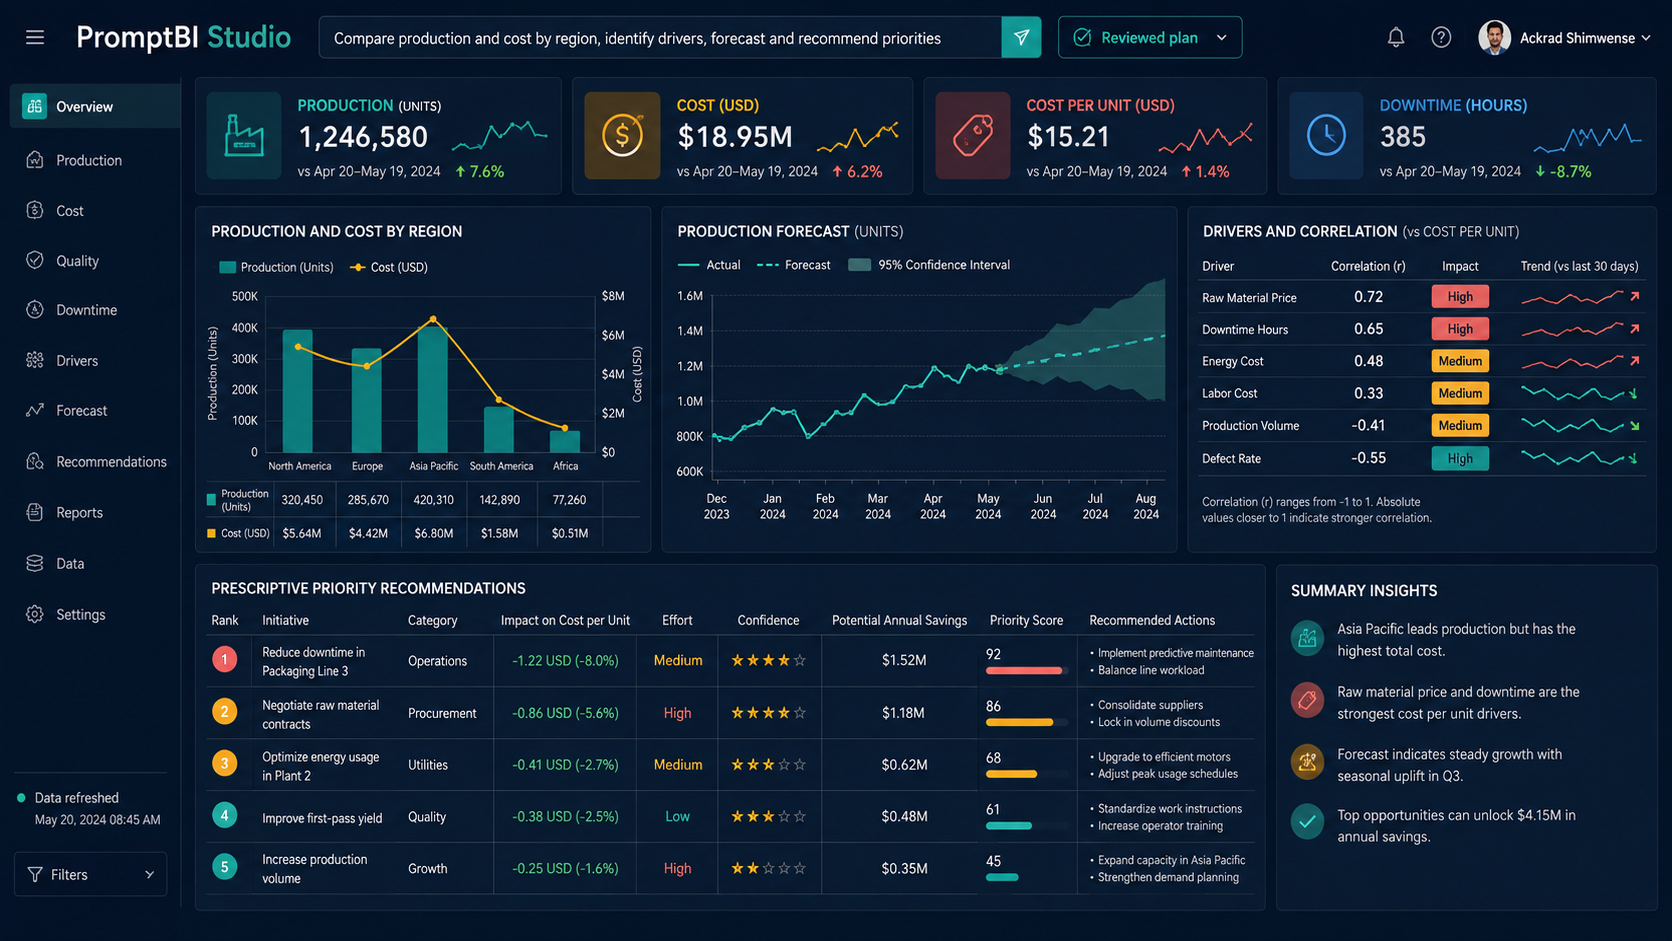
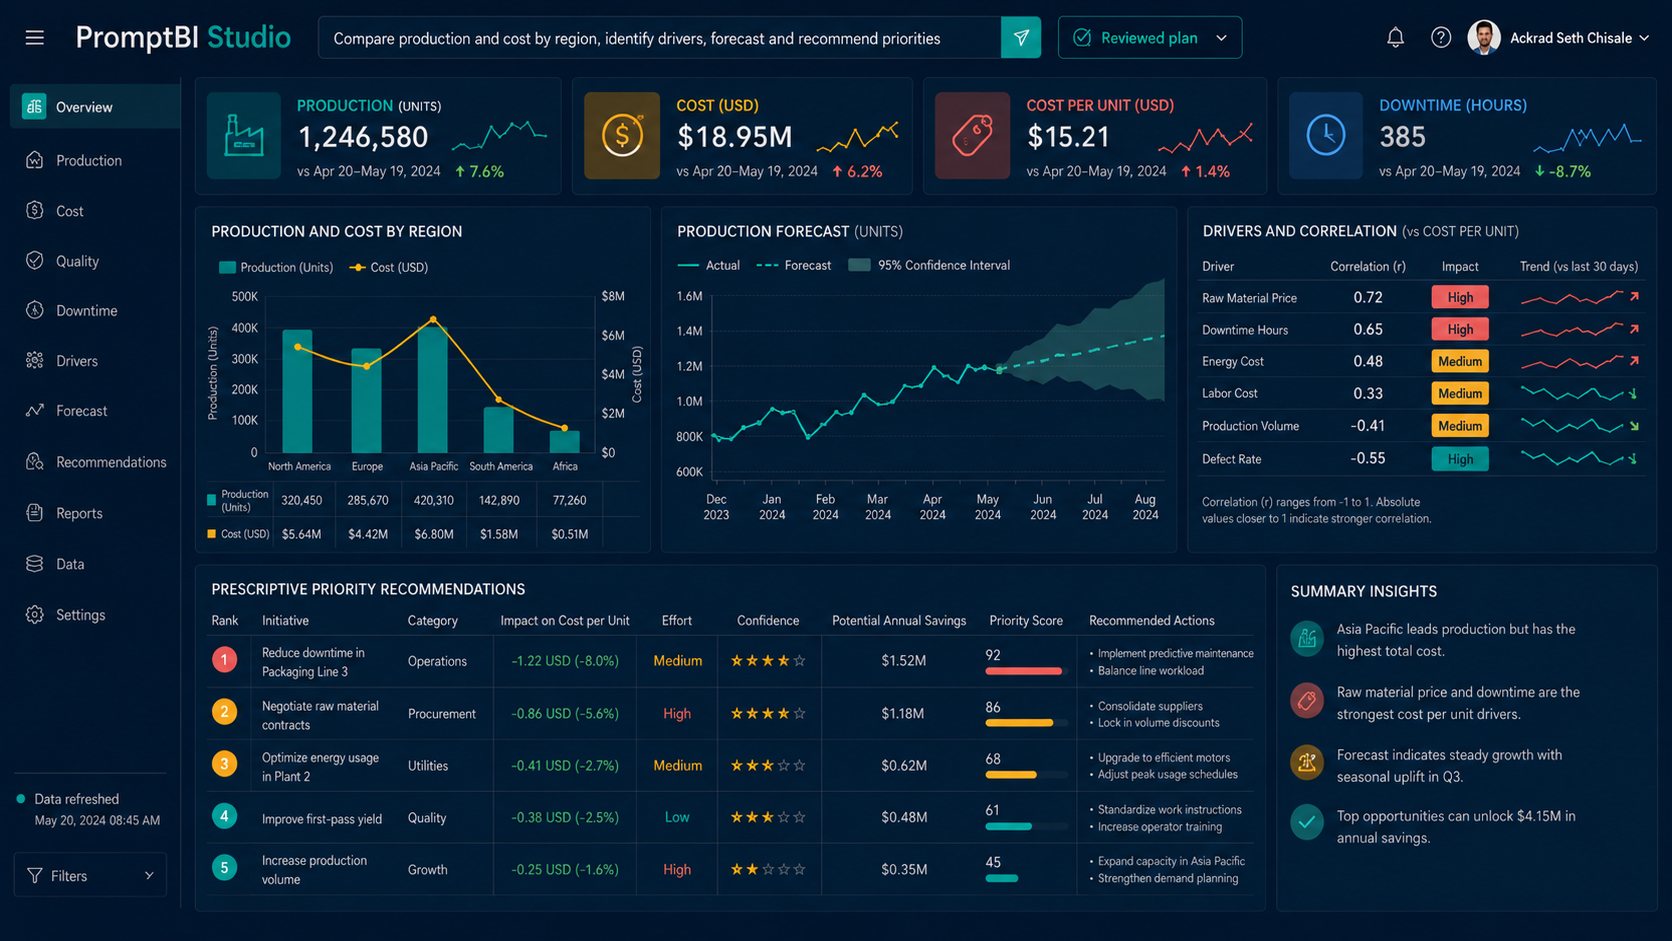
Correct author identity in project documentation

diff --git a/README.md b/README.md
@@ -1,6 +1,6 @@
 # PromptBI Studio
 
-**Built by Ackrad Shimwense**
+**Built by Ackrad Seth Chisale**
 
 PromptBI Studio turns a plain-language analysis request into a visible, validated plan, runs the approved analysis, builds interactive dashboards, and prepares data for Tableau. The core analysis works locally without a Tableau license; Hyper and publishing support are optional delivery steps.
 
